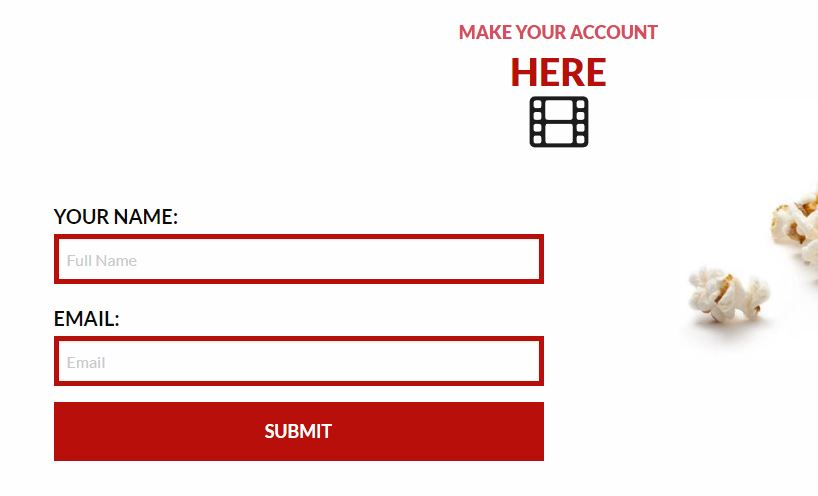
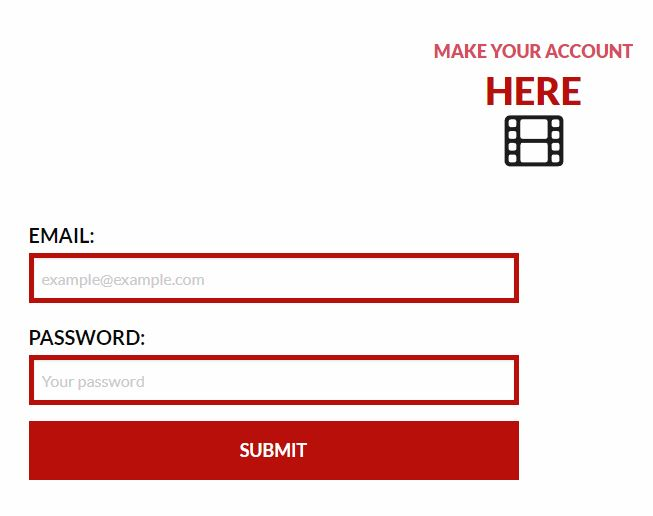
added calendar, personalized notification filter, added texts, minor fixes

diff --git a/src/assets/scss/_custom.scss b/src/assets/scss/_custom.scss
@@ -444,6 +444,51 @@ h1 {
     user-select: none;
 }
 
+.bottomborder{
+    padding-top: 10px;
+    padding-bottom: 10px;
+    border-bottom: 3px solid $primary-color;
+}
+.notif_filter{
+    padding-top: 10px;
+    padding-bottom: 10px;
+    display: flex;
+    @include xy-cell();
+    margin-left: 5px;
+    margin-right: 5px; 
+    width: 98.6%;
+        @include breakpoint(small only) {
+            display: inline-block;
+        }
+
+}
+
+.notif_filter_flex{
+    padding-right: 50px;
+    padding-left: 50px;
+        @include breakpoint(medium only) {
+        padding-right: 25px;
+        padding-left: 25px;
+        }
+        @include breakpoint(small only) {
+        padding-right: 0px;
+        padding-left: 0px;
+        }
+}
+
+.selectbutton_notf_filter{
+    display: table;
+    position: relative;
+    padding-left: 35px;
+    margin-bottom: 12px;
+    cursor: pointer;
+    font-size: 22px;
+    -webkit-user-select: none;
+    -moz-user-select: none;
+    -ms-user-select: none;
+    user-select: none;
+}
+
 /* Hide the browser's default checkbox */
 .selectbutton input {
     position: absolute;
@@ -455,6 +500,16 @@ h1 {
 
 /* Create a custom checkbox */
 .checkmark {
+    position: absolute;
+    top: 8px;
+    left: 0;
+    height: 25px;
+    width: 25px;
+    background-color: $white;
+    border: rem-calc(2) solid $primary-color;
+}
+.checkmark_notf_filter {
+    margin-left: 10px;
     position: absolute;
     top: 8px;
     left: 0;
@@ -712,6 +767,14 @@ table tr {
     clip-path: circle(50.0% at 50% 50%);
     border: 3px solid $secondary-color;
     margin-right: 140px;
+    @include breakpoint(medium only) {
+        margin-left: 40px;
+        margin-right: 0px;
+    }
+    @include breakpoint(small only) {
+        margin-left: 15px;
+        margin-right: 0px;
+    }
 }
 
 .notification-form-detailed {
@@ -832,7 +895,6 @@ table tr {
     @include xy-cell();
     margin-left: 5px;
     margin-right: 5px; 
-    border-bottom: 3px solid $primary-color;
     
     @include breakpoint(medium only) {
         width: stretch;
@@ -848,6 +910,7 @@ table tr {
         @include xy-grid();
         @include flex-align(center);
     }
+
 
     
 
@@ -884,4 +947,57 @@ table tr {
             width: stretch;
             }
     }
+}
+
+.notification-form-button{
+padding-top: 10px;
+padding-bottom: 10px;
+display: grid;
+width: 110%;
+margin-left:5px;
+margin-right: 25px;
+border-bottom: rem-calc(3) solid $primary-color;
+    input{
+        font-size: rem-calc(18);
+    }
+        @include breakpoint(medium only) {
+            margin-right: 5px;
+            margin-left: 5px;
+            }
+            @include breakpoint(small only) {
+                margin-right: 5px;
+                margin-left: 5px;
+                }
+    
+}
+
+.calendar{
+    display: inline-block;
+[type="date"] {
+    background:#fff url(https://cdn1.iconfinder.com/data/icons/cc_mono_icon_set/blacks/16x16/calendar_2.png)  97% 50% no-repeat ;
+  }
+  [type="date"]::-webkit-inner-spin-button {
+    display: none;
+  }
+  [type="date"]::-webkit-calendar-picker-indicator {
+    opacity: 0;
+  }
+  
+  /* custom styles */
+  body {
+    padding: 4em;
+    background: #e5e5e5;
+    font: 13px/1.4 Geneva, 'Lucida Sans', 'Lucida Grande', 'Lucida Sans Unicode', Verdana, sans-serif;
+  }
+  label {
+    display: block;
+  }
+  input {
+    border: 1px solid #c4c4c4;
+    border-radius: 5px;
+    background-color: #fff;
+    padding: 3px 5px;
+    box-shadow: inset 0 3px 6px rgba(0,0,0,0.1);
+    width: 190px;
+  }
 }

diff --git a/src/partials/our_process.html b/src/partials/our_process.html
@@ -7,7 +7,7 @@
     <!--.process image-->
     <div class="process-content process-item">
         <h3>Create an account</h3>
-        <p>lorem ipsum lorem ipsum lorem ipsum lorem ipsum lorem ipsum lorem ipsum</p>
+        <p>This is the first step to creating your The Movie List account. Fill your Email and password to complete your account sign-up process.</p>
     </div>
     <!--.process content-->
 </div>
@@ -19,7 +19,7 @@
     <!--.process image-->
     <div class="process-content process-item">
         <h3>Search, filter movies</h3>
-        <p>lorem ipsum lorem ipsum lorem ipsum lorem ipsum lorem ipsum lorem ipsum</p>
+        <p>Use the search filter to specify movies you are looking for by changing: ratings, genres and sort by option.</p>
     </div>
     <!--.process content-->
 </div>
@@ -31,7 +31,19 @@
     <!--.process image-->
     <div class="process-content process-item">
         <h3>Choose movies to get notified</h3>
-        <p>lorem ipsum lorem ipsum lorem ipsum lorem ipsum lorem ipsum lorem ipsum</p>
+        <p>Select the preferred option to recieve your notifications by Email or SMS.</p>
+    </div>
+    <!--.process content-->
+</div>
+<!--.process-container-->
+<div class="process-container">
+    <div class="process-image process-item">
+        <img src="assets/img/process_4_1.jpg">
+    </div>
+    <!--.process image-->
+    <div class="process-content process-item">
+        <h3>Set your personalized notification filter</h3>
+        <p>For using this feature head to My Account settings to set the default notification filter to which movies you want to get notified.</p>
     </div>
     <!--.process content-->
 </div>
@@ -43,7 +55,7 @@
     <!--.process image-->
     <div class="process-content process-item">
         <h3>Be the first who knows</h3>
-        <p>lorem ipsum lorem ipsum lorem ipsum lorem ipsum lorem ipsum lorem ipsum</p>
+        <p>Recieve your ordered notifications you have chosen by single movie or by your default notification filter set in My Account.</p>
     </div>
     <!--.process content-->
 </div>
@@ -55,7 +67,7 @@
     <!--.process image-->
     <div class="process-content process-item">
         <h3>Enjoy the movies</h3>
-        <p>lorem ipsum lorem ipsum lorem ipsum lorem ipsum lorem ipsum lorem ipsum</p>
+        <p>Invite your friends and don't miss a single movie anymore!</p>
     </div>
     <!--.process content-->
 </div>

diff --git a/src/pages/register.html b/src/pages/register.html
@@ -11,19 +11,19 @@ slogan: Become a member today
             <form method="post" id="contact-form" action="assets/php/send.php" data-abide novalidate>
                 <div class="field-container">
                     <label for="name">
-                        Your Name:
-                        <input type="text" id="name" placeholder="Full Name" name="name" required>
+                        EMAIL:
+                        <input type="text" id="name" placeholder="example@example.com" name="name" required>
                         <span class="form-error">
-                            Error, the name field is mandatory!
+                            Error, the Email field is mandatory!
                         </span>
                     </label>
                 </div>
                 <div class="field-container">
                     <label for="email">
-                        Email:
-                        <input type="text" id="email" placeholder="Email" name="email" required pattern="email">
+                        Password:
+                        <input type="text" id="email" placeholder="Your password" name="email" required pattern="email">
                         <span class="form-error">
-                            Error, the Email field is mandatory!
+                            Error, the Password field is mandatory!
                         </span>
                     </label>
                 </div>

diff --git a/src/pages/myaccount.html b/src/pages/myaccount.html
@@ -54,18 +54,28 @@ slogan: Everything about your account
                 <option value="9">9+</option>
             </select>
 
+        </div>
+        <!-- 3.2 Notifications Column -->
+        <div class="container">
+            <div class="notif_filter">
+                <div class="notif_filter_flex">
+                    <label class="selectbutton">
+                        <input type="checkbox" name="email" value="email"> Email-notification<br>
+                        <span class="checkmark"></span>
+                    </label>
+                </div>
+                <div class="notif_filter_flex">
+                    <label class="selectbutton">
+                        <input type="checkbox" name="sms" value="sms"> SMS-notification(-0.32€)<br>
+                        <span class="checkmark"></span>
+                    </label>
+                </div>
+            </div>
+        </div>
+        <div class="notification-form-button">
             <input type="submit" value="Set notification filter" class="button send_btn">
         </div>
-
-
-
-
-
-
-
-
-
-
+        <!-- 3.3 My Selected Notifications Column -->
         <h2 class="heading-title">My<span>Selected Notifications</span></h2>
         <div class="display-guide">
             <h4>Movie name</h4>

diff --git a/src/pages/currentmovies.html b/src/pages/currentmovies.html
@@ -2,11 +2,9 @@
 title: currentmovies
 slogan: Enjoy the finest movies
 ---
-
 <div class="container">
     <main class="main-content page-{{title}}">
         <h2 class="heading-title">These are current<span>Movies</span></h2>
-
         <!-- 1.Search and filtering -->
         <div class="search-form">
             <input type="search" placeholder="Search..">
@@ -146,7 +144,14 @@ slogan: Enjoy the finest movies
         <h3>Comedy, Drama</h3>
     </div>
 
-
+    <div class="columns">
+        <div class="order-notification">
+            <div class="calendar">
+                <h3>Select date</h3>
+                <input type="date" name="dateofbirth" id="dateofbirth">
+            </div>
+        </div>
+    </div>
     <!-- 3.2 Cinema names which plays the movie -->
     <div class="columns">
         <div class="cinemanamefix">

diff --git a/src/pages/upcomingmovies.html b/src/pages/upcomingmovies.html
@@ -143,7 +143,7 @@ slogan: Know when it's arriving
             </div>
             <h3>Comedy, Drama</h3>
         </div>
-
+        
         <!-- 3.2 Notifications Column -->
         <div class="columns">
             <div class="order-notification">
@@ -173,3 +173,5 @@ slogan: Know when it's arriving
         </button>
     </div>
 </div>
+
+
